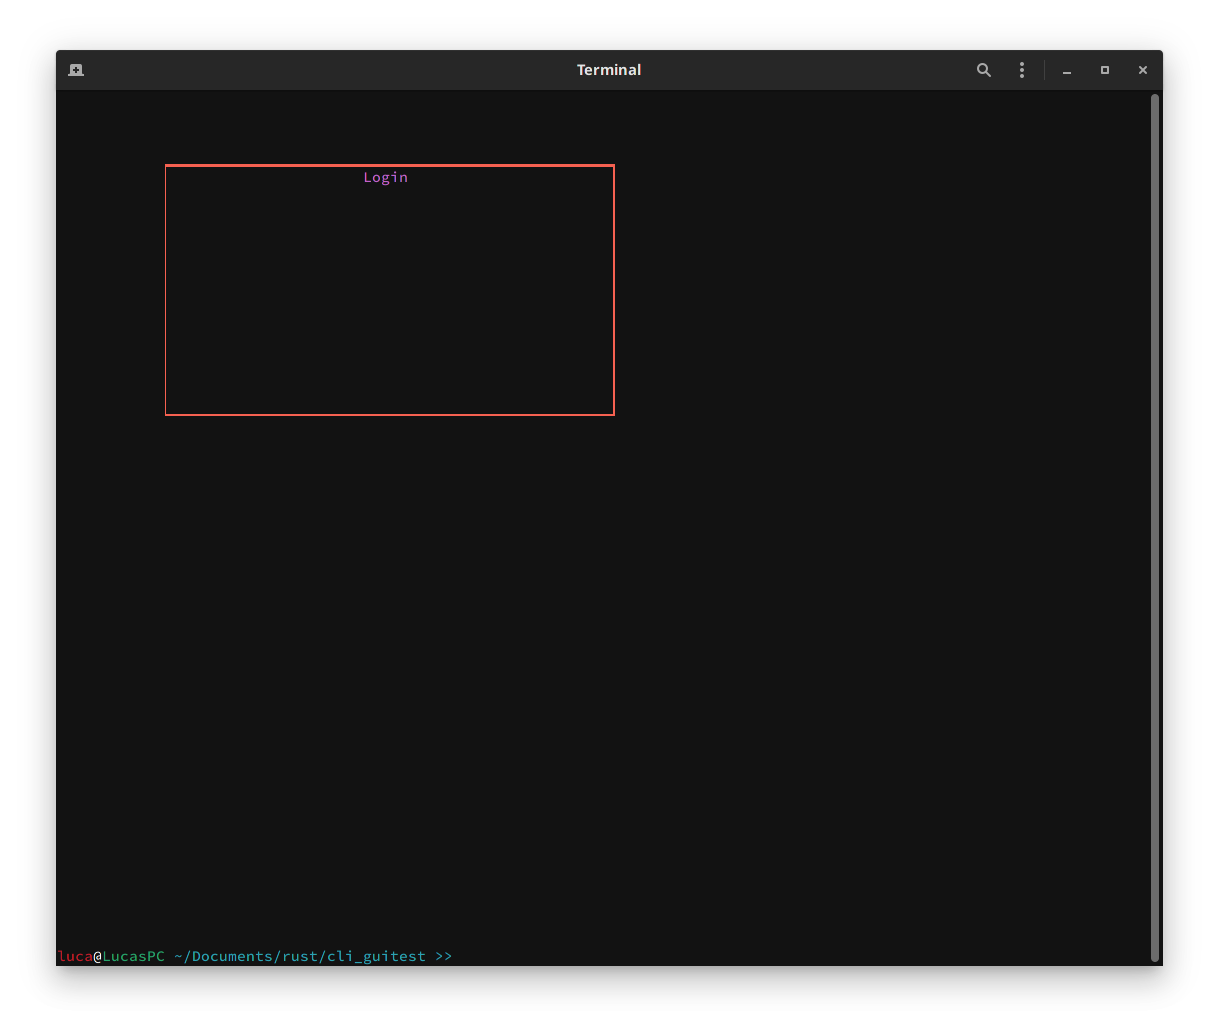
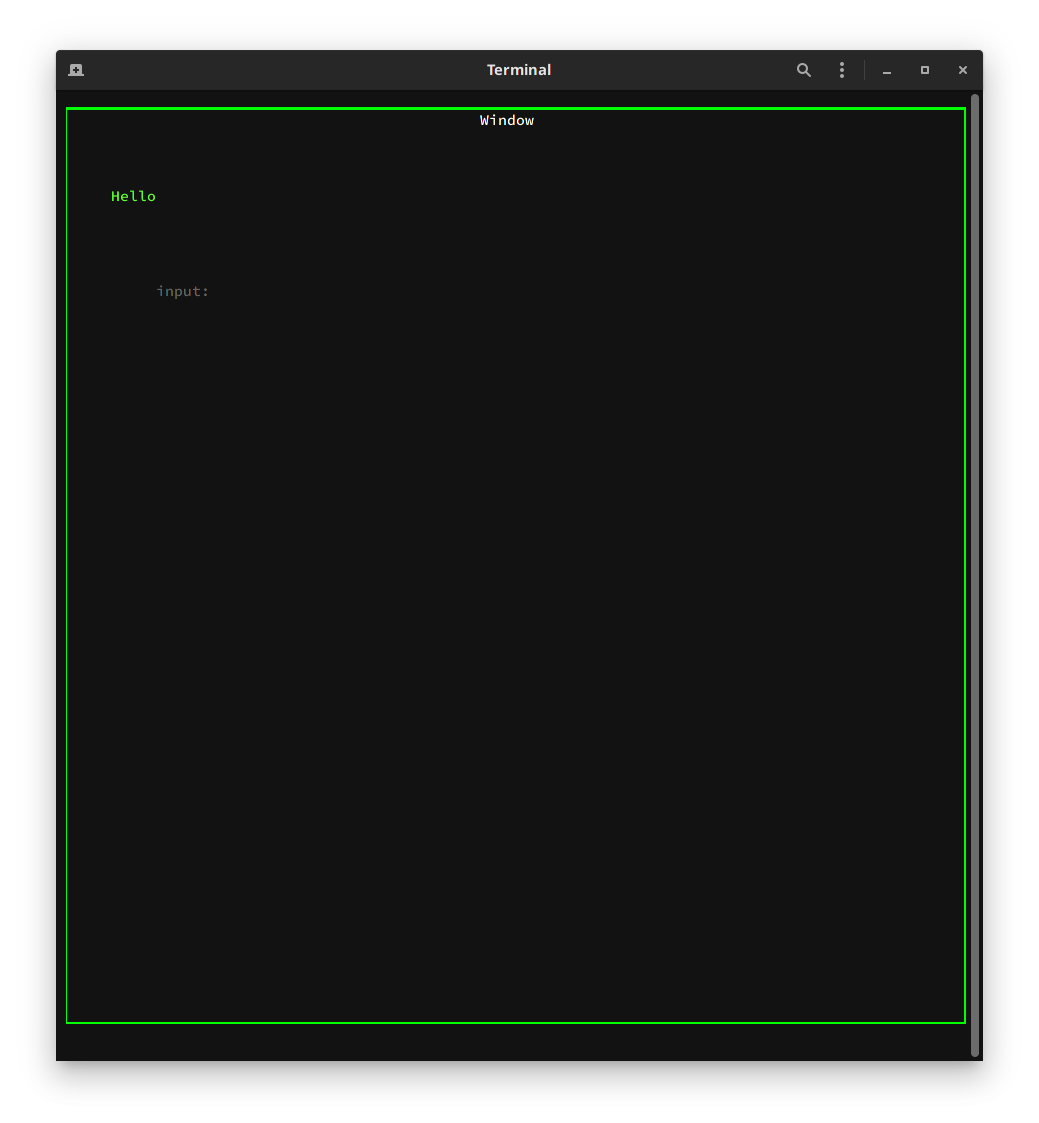
updated documentation

diff --git a/Documentation.md b/Documentation.md
@@ -2,23 +2,25 @@
 If you want to create a empty window you can do that like that:
 
 ```Rust
-use std::io::{Write, stdout};
 use cli_gui::*;
 
 fn main() {
-        // creates main window
-        let mut window = Window::new(Size::new(120, 45)); // <-- Size
+    // creates main window
+    let mut window = Window::new(Position::new(1, 0), Size::new(100, 50));
+    window.set_to_main();
 
-        // creates sub window
-        let mut login_window = SubWindow::new(Position::new(35, 15), Size::new(50, 15));
+    // writes text to window
+    window.write(Position::new(5, 5), "Hello".to_string(), Color::new(100, 255, 50));
 
-        // draws sub window into main window
-        window.write_window(&login_window);
+    // decorates window with title and borders
+    window.decorate();
 
-        // renders main window
-        window.render();
-        stdout().flush()
-            .expect("failed to flush stdout :(");
+    // renders window to terminal
+    window.render();
+    
+    // halts the programm to then quit
+    window.read_line(Position::new(10, 10), "input: ", Color::new(100, 100, 100), true);
+    window.quit();
 }
 ```
 ![emptywindow](https://github.com/BrunoWallner/cli_gui/blob/main/pictures/empty_window.png)
@@ -26,78 +28,51 @@ fn main() {
 You can customize it like this:
 
 ```Rust
-login_window.set_border_color(1); // <- sets border color
-login_window.set_title("Login".to_string()); // <- sets title of sub window
-login_window.set_title_color(5); // <- sets title color
-login_window.move_window(Position::new(12, 3)); // <- moves the window
+window.set_border_color(Color::new(0, 255, 0));
+window.set_title("Window".to_string());
 ```
 ![customizedwindow](https://github.com/BrunoWallner/cli_gui/blob/main/pictures/customized_window.png)
-Make sure that you do this befor writing the sub window into the main window ( window.write_window(&login_window) )!
+Make sure that you do this before you use window.decorate()!
 
 Or you can write text into the window like:
 ```Rust
-login_window.write(Position::new(5, 5), "Moin Meister".to_string(), 3);
-login_window.write(Position::new(25, 9), "Test".to_string(), 0);
+window.write(Position::new(5, 5), "Hello".to_string(), Color::new(100, 255, 50));
 ```
+Later it even will be possible to draw lines.
 
 You can even read user input from a sub window
 ```Rust
-let input = login_window.input(Position::new(7, 10), "input: ");
+// reads line, blocking
+input = window.read_line(Position::new(10, 10), "input: ", Color::new(100, 100, 100), true);
+
+// reads char if one is pressed, waits 1ms everytime for keypress when this functions is called
+input = window.read_char();
 ```
 
-Make sure you do this after rendering the main window because input() is blocking :(
-
-you can clear the window with window.clear()
-
-## Color-codes
-number	| color
-------	| ------
-0	| white
-1	| red
-2	| green
-3	| blue
-4	| cyan
-5	| magenta
-
-there will be more available in later releases
+you can clear the window with window.clear() and the entire terminal with clear_terminal()
 
 Here is the enitre code:
 ```Rust
-use std::io::{Write, stdout};
-use cli_gui::*;
+    // creates main window
+    let mut window = Window::new(Position::new(1, 0), Size::new(100, 50));
+    window.set_to_main();
 
-fn main() {
-        // creates main window
-        let mut window = Window::new(Size::new(120, 45));
+    // writes text to window
+    window.write(Position::new(5, 5), "Hello".to_string(), Color::new(100, 255, 50));
 
-        // creates sub window
-        let mut login_window = SubWindow::new(Position::new(35, 15), Size::new(50, 15));
+    // decorates the window
+    window.set_border_color(Color::new(0, 255, 0));
+    window.set_title("Window".to_string());
+    
+    // decorates window with title and borders
+    window.decorate();
 
-        // draws sub window into main window
-        login_window.set_border_color(1); // <- sets border color
-        login_window.set_title("Login".to_string()); // <- sets title of sub window
-        login_window.set_title_color(5); // <- sets title color
-        login_window.move_window(Position::new(12, 3)); // <- moves the window
+    // renders window to terminal
+    window.render();
 
-        login_window.write(Position::new(5, 5), "Moin Meister".to_string(), 3);
-        login_window.write(Position::new(25, 9), "Test".to_string(), 0);
-
-        window.write_window(&login_window);
-
-        // renders main window
-        window.render();
-        stdout().flush()
-            .expect("failed to flush stdout :(");
-
-        let input = login_window.input(Position::new(7, 10), "input: ");
-        login_window.write(Position::new(20, 5), input, 3);
-        window.write_window(&login_window);
-
-
-        // renders main window
-        window.render();
-        stdout().flush()
-            .expect("failed to flush stdout :(");
+    // halts the programm
+    window.read_line(Position::new(10, 10), "input: ", Color::new(100, 100, 100), true);
+    window.quit();
 }
 ```
 ![finalwindow](https://github.com/BrunoWallner/cli_gui/blob/main/pictures/final_window.png)

diff --git a/README.md b/README.md
@@ -1,10 +1,11 @@
 # cli_gui
 ### A simple rust cross-platform libary designed for simple guis completely in cli
-![finalwindow](https://github.com/BrunoWallner/cli_gui/blob/main/pictures/final_window.png)
+
 - cross platform
 - RGB colors
 - line and char input reading
 - window decoration with title and outlines
+![finalwindow](https://github.com/BrunoWallner/cli_gui/blob/main/pictures/final_window.png)
 
 The Documentation can be found here:
-[DOCUMENTATION](https://github.com/BrunoWallner/cli_gui/blob/main/Documentation.md)
+[documentation](https://github.com/BrunoWallner/cli_gui/blob/main/Documentation.md)
